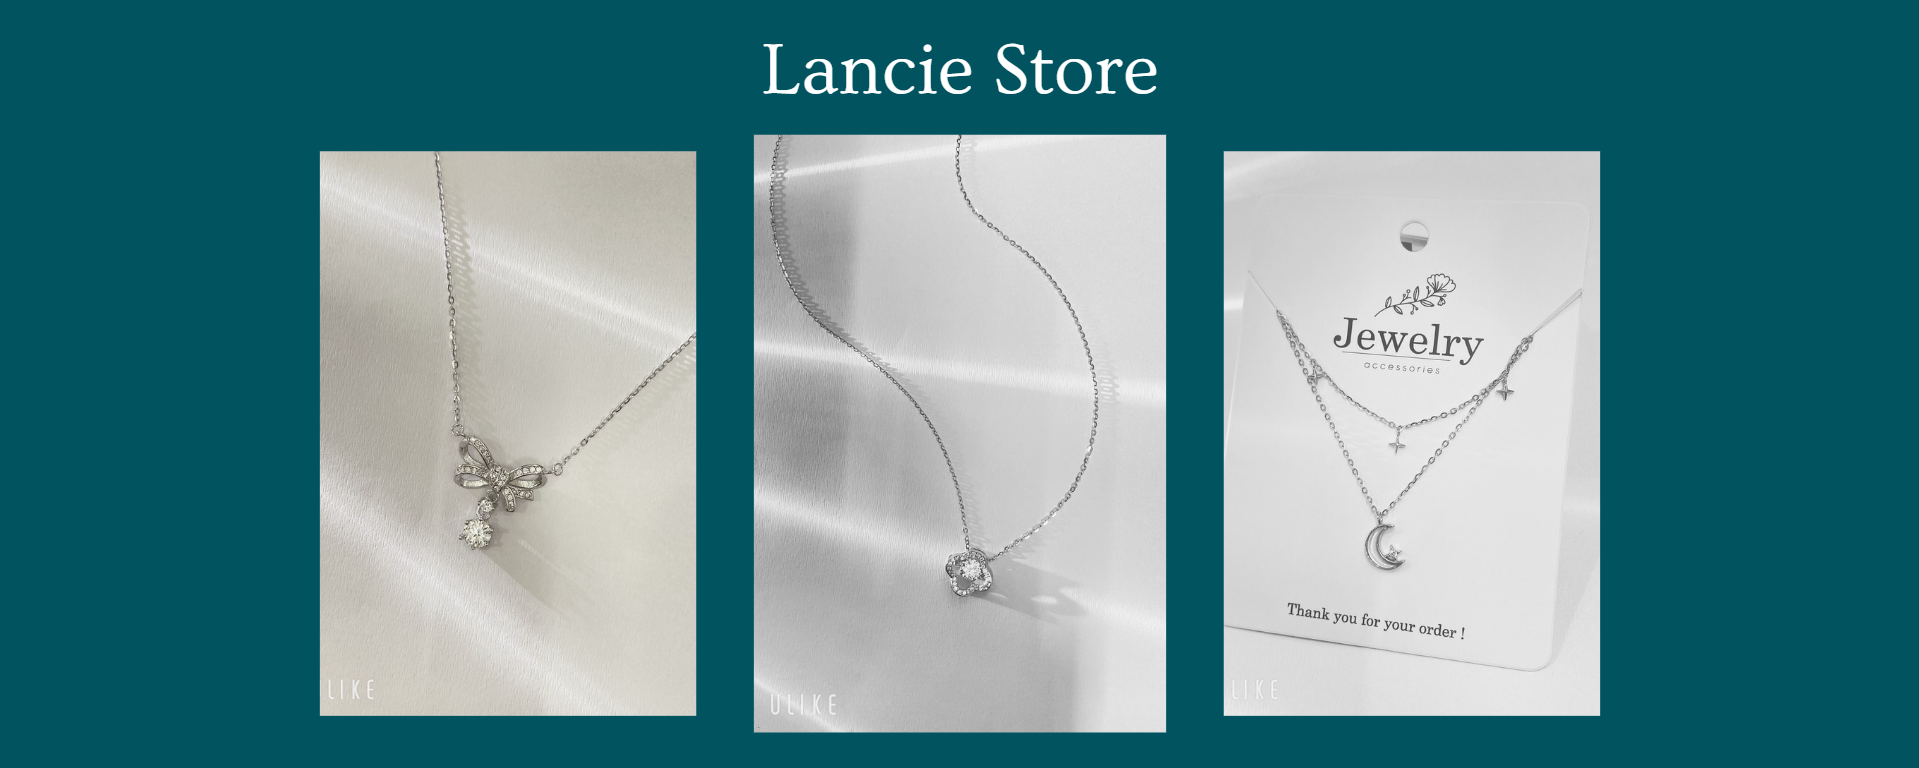
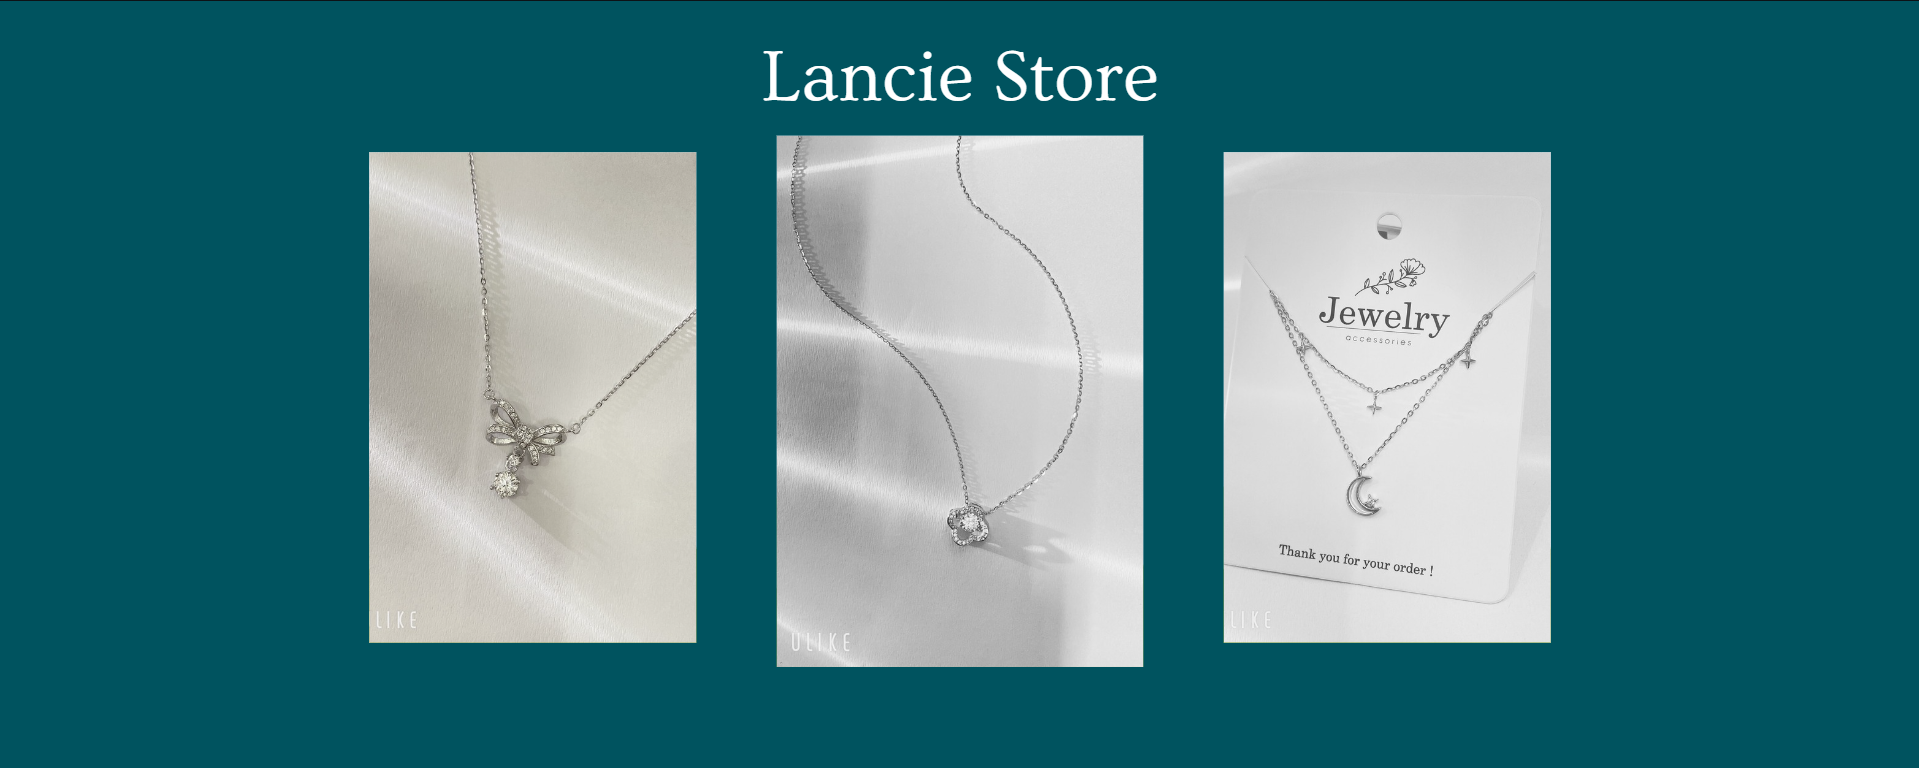
fix

Changed region(s): [[0.1537, 0.0625, 0.8609, 0.9688], [0.4919, 0.25, 0.5227, 0.3125], [0.5227, 0.3125, 0.5534, 0.3438]]

diff --git a/index.html b/index.html
@@ -98,12 +98,12 @@
                 <div class="col-lg-6">
                     <div class="row g-3">
                         <div class="col-6 text-end">
-                            <img class="img-fluid bg-white w-100 mb-3 wow fadeIn" data-wow-delay="0.1s" src="img/daychuyen/canhbuom/1.png" alt="">
-                            <img class="img-fluid bg-white w-50 wow fadeIn" data-wow-delay="0.2s" src="img/daychuyen/bonla/1.png" alt="">
+                            <img class="img-fluid bg-white w-100 mb-3 wow fadeIn" data-wow-delay="0.1s" src="img/daychuyen/img1.JPG" alt="">
+                            <img class="img-fluid bg-white w-75 wow fadeIn" data-wow-delay="0.2s" src="img/daychuyen/IMG4.jpg" alt="">
                         </div>
                         <div class="col-6">
-                            <img class="img-fluid bg-white w-50 mb-3 wow fadeIn" data-wow-delay="0.3s" src="img/daychuyen/thiennga/2.png" alt="">
-                            <img class="img-fluid bg-white w-100 wow fadeIn" data-wow-delay="0.4s" src="img/daychuyen/caino/2.png" alt="">
+                            <img class="img-fluid bg-white w-75 mb-3 wow fadeIn" data-wow-delay="0.3s" src="img/daychuyen/IMG2.jpg" alt="">
+                            <img class="img-fluid bg-white w-100 wow fadeIn" data-wow-delay="0.4s" src="img/daychuyen/img3.jpg" alt="">
                         </div>
                     </div>
                 </div>
@@ -166,7 +166,7 @@
                 <a href="#contact" class="d-block product-item rounded">
                     <img src="img/daychuyen/chiemtinh/2.png" alt="">
                     <div class="bg-white shadow-sm text-center p-4 position-relative mt-n5 mx-4">
-                        <h4 class="text-primary">Chiêm tinh</h4>
+                        <h4 class="text-primary">Mặt trăng</h4>
                     </div>
                 </a>
             </div>

diff --git a/css/style.css b/css/style.css
@@ -30,6 +30,21 @@
     border-radius: 5px 5px 100px 100px;
     border: 4px solid #00535F;
 }
+@media (max-width: 769px) {
+    .logo {
+        width: 90%;
+    }
+}
+@media (max-width: 520px) {
+    .logo {
+        width: 80%;
+    }
+}
+@media (max-width: 485px) {
+    .logo {
+        width: 70%;
+    }
+}
 
 /*** Spinner ***/
 #spinner {
@@ -461,7 +476,7 @@
 
 /*** Testimonial ***/
 .testimonial {
-    background: linear-gradient(rgba(136, 180, 78, .85), rgba(136, 180, 78, .85)), url(../img/testimonial-bg.jpg) center center no-repeat;
+    background: linear-gradient(rgba(4, 75, 68, 0.85), rgba(8, 63, 65, 0.85)), url(../img/tes_bg.jpg) center center no-repeat;
     background-size: cover;
 }
 
@@ -492,14 +507,14 @@
     margin: 0 5px;
     width: 15px;
     height: 15px;
-    background: var(--primary);
+    background: var(--light);
     border-radius: 15px;
     transition: .5s;
 }
 
 .testimonial-carousel .owl-dot.active {
     width: 30px;
-    background: var(--dark);
+    background: var(--light);
 }
 
 
